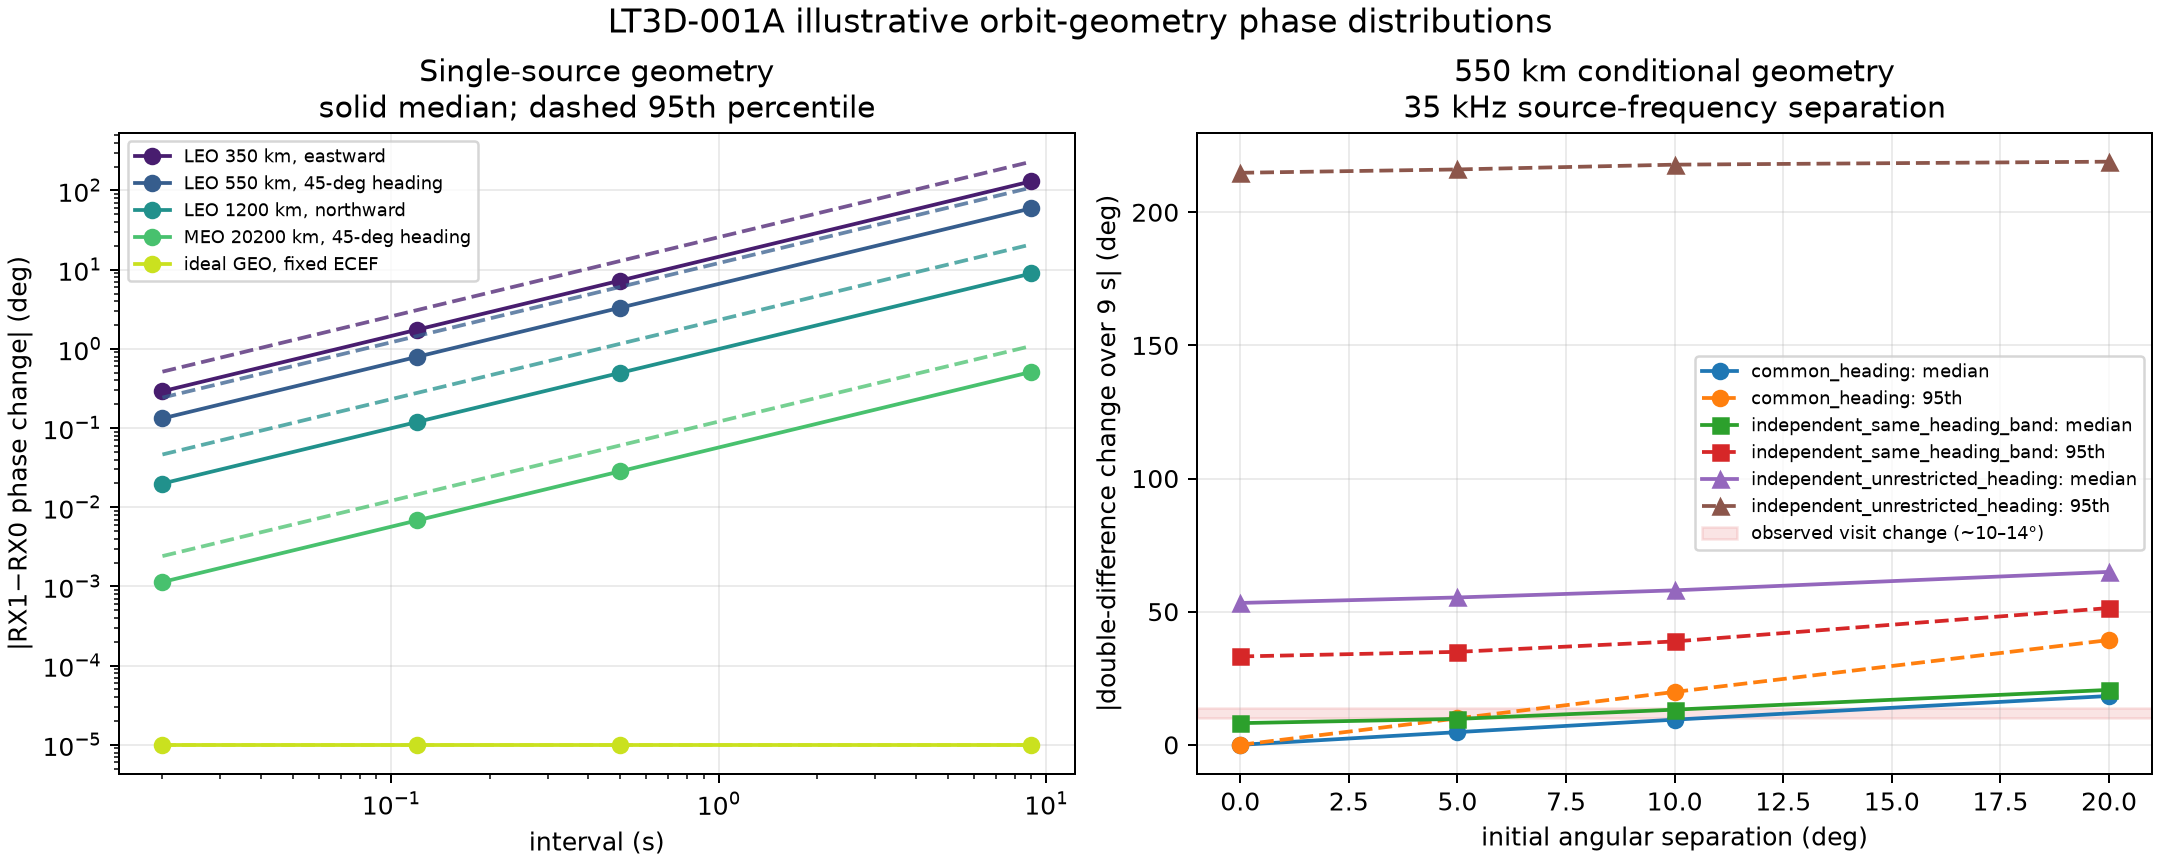
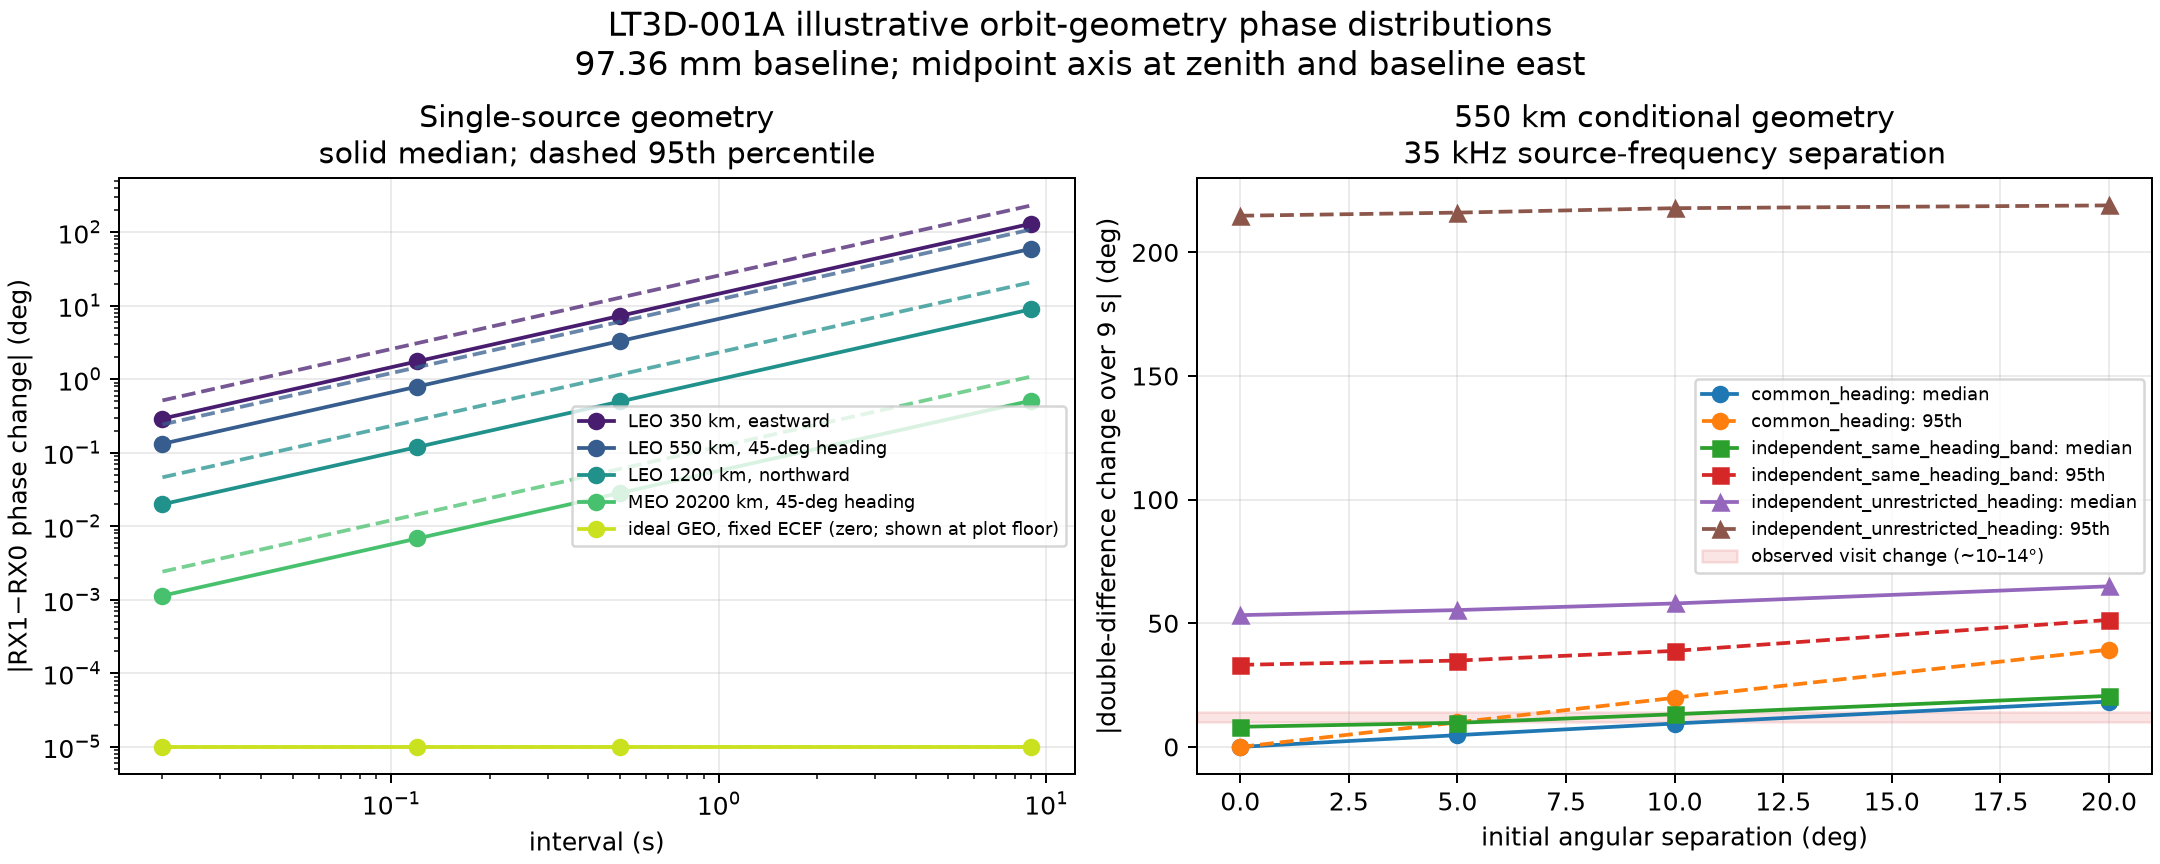
Clarify phase geometry figure assumptions

Changed region(s): [[0.0, 0.0, 1.0, 0.875], [0.031, 0.8438, 0.4963, 0.875], [0.5583, 0.25, 0.5894, 0.2812]]

diff --git a/tools/report_phase_geometry_scenarios.py b/tools/report_phase_geometry_scenarios.py
@@ -285,7 +285,8 @@ def plot_report(body: dict, output_path: Path) -> None:
     for color, (name, rows) in zip(colors, body["single_source"].items(), strict=True):
         med = [rows[str(t)]["median_abs_deg"] for t in times]
         hi = [rows[str(t)]["q95_abs_deg"] for t in times]
-        axes[0].plot(times, np.maximum(med, 1e-5), marker="o", color=color, label=name)
+        label = f"{name} (zero; shown at plot floor)" if name.startswith("ideal GEO") else name
+        axes[0].plot(times, np.maximum(med, 1e-5), marker="o", color=color, label=label)
         axes[0].plot(times, np.maximum(hi, 1e-5), linestyle="--", color=color, alpha=0.75)
     axes[0].set_xscale("log")
     axes[0].set_yscale("log")
@@ -322,7 +323,11 @@ def plot_report(body: dict, output_path: Path) -> None:
     axes[1].set_title("550 km conditional geometry\n35 kHz source-frequency separation")
     axes[1].grid(alpha=0.25)
     axes[1].legend(fontsize=7)
-    fig.suptitle("LT3D-001A illustrative orbit-geometry phase distributions", fontsize=13)
+    fig.suptitle(
+        "LT3D-001A illustrative orbit-geometry phase distributions\n"
+        "97.36 mm baseline; midpoint axis at zenith and baseline east",
+        fontsize=13,
+    )
     output_path.parent.mkdir(parents=True, exist_ok=True)
     fig.savefig(output_path, dpi=180)
     plt.close(fig)
